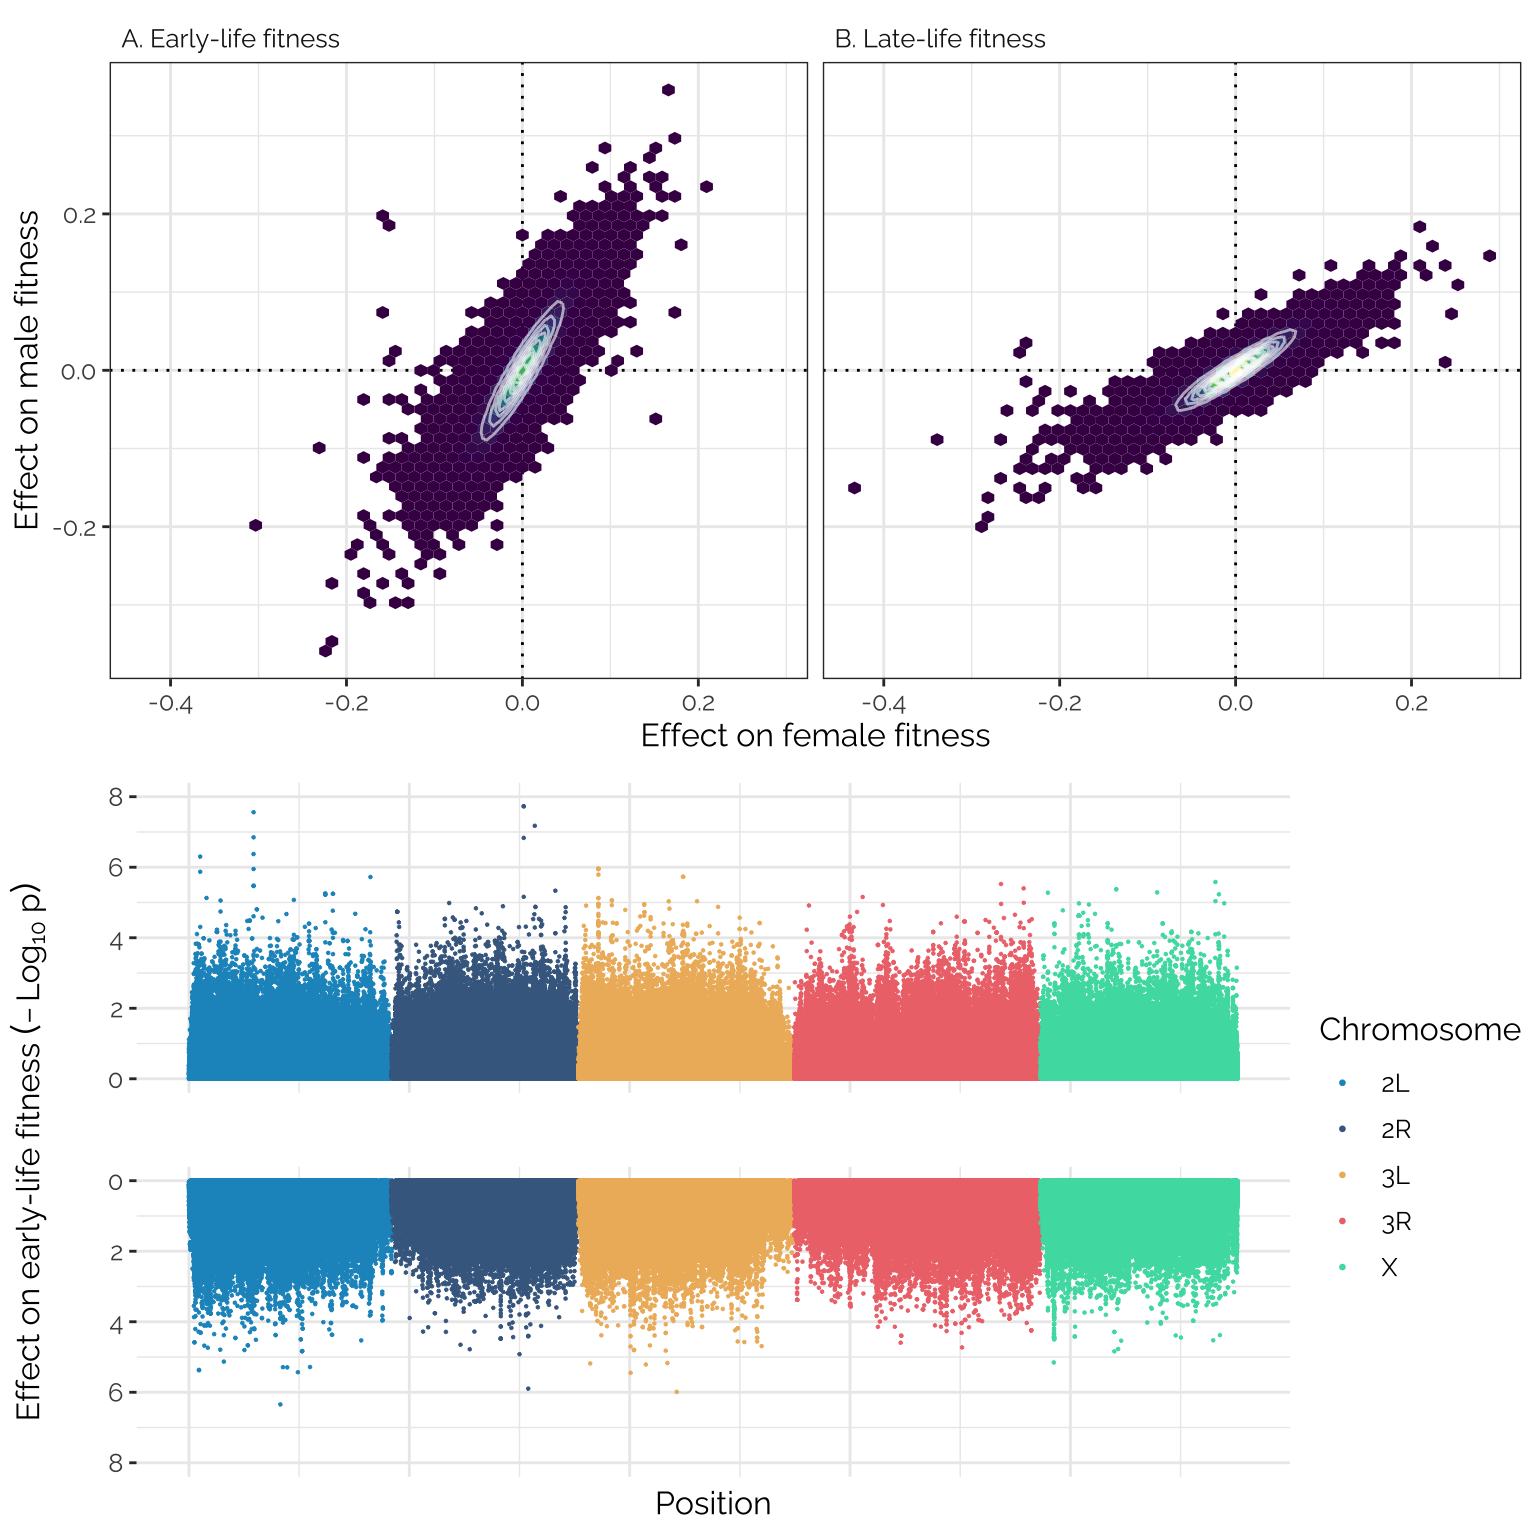
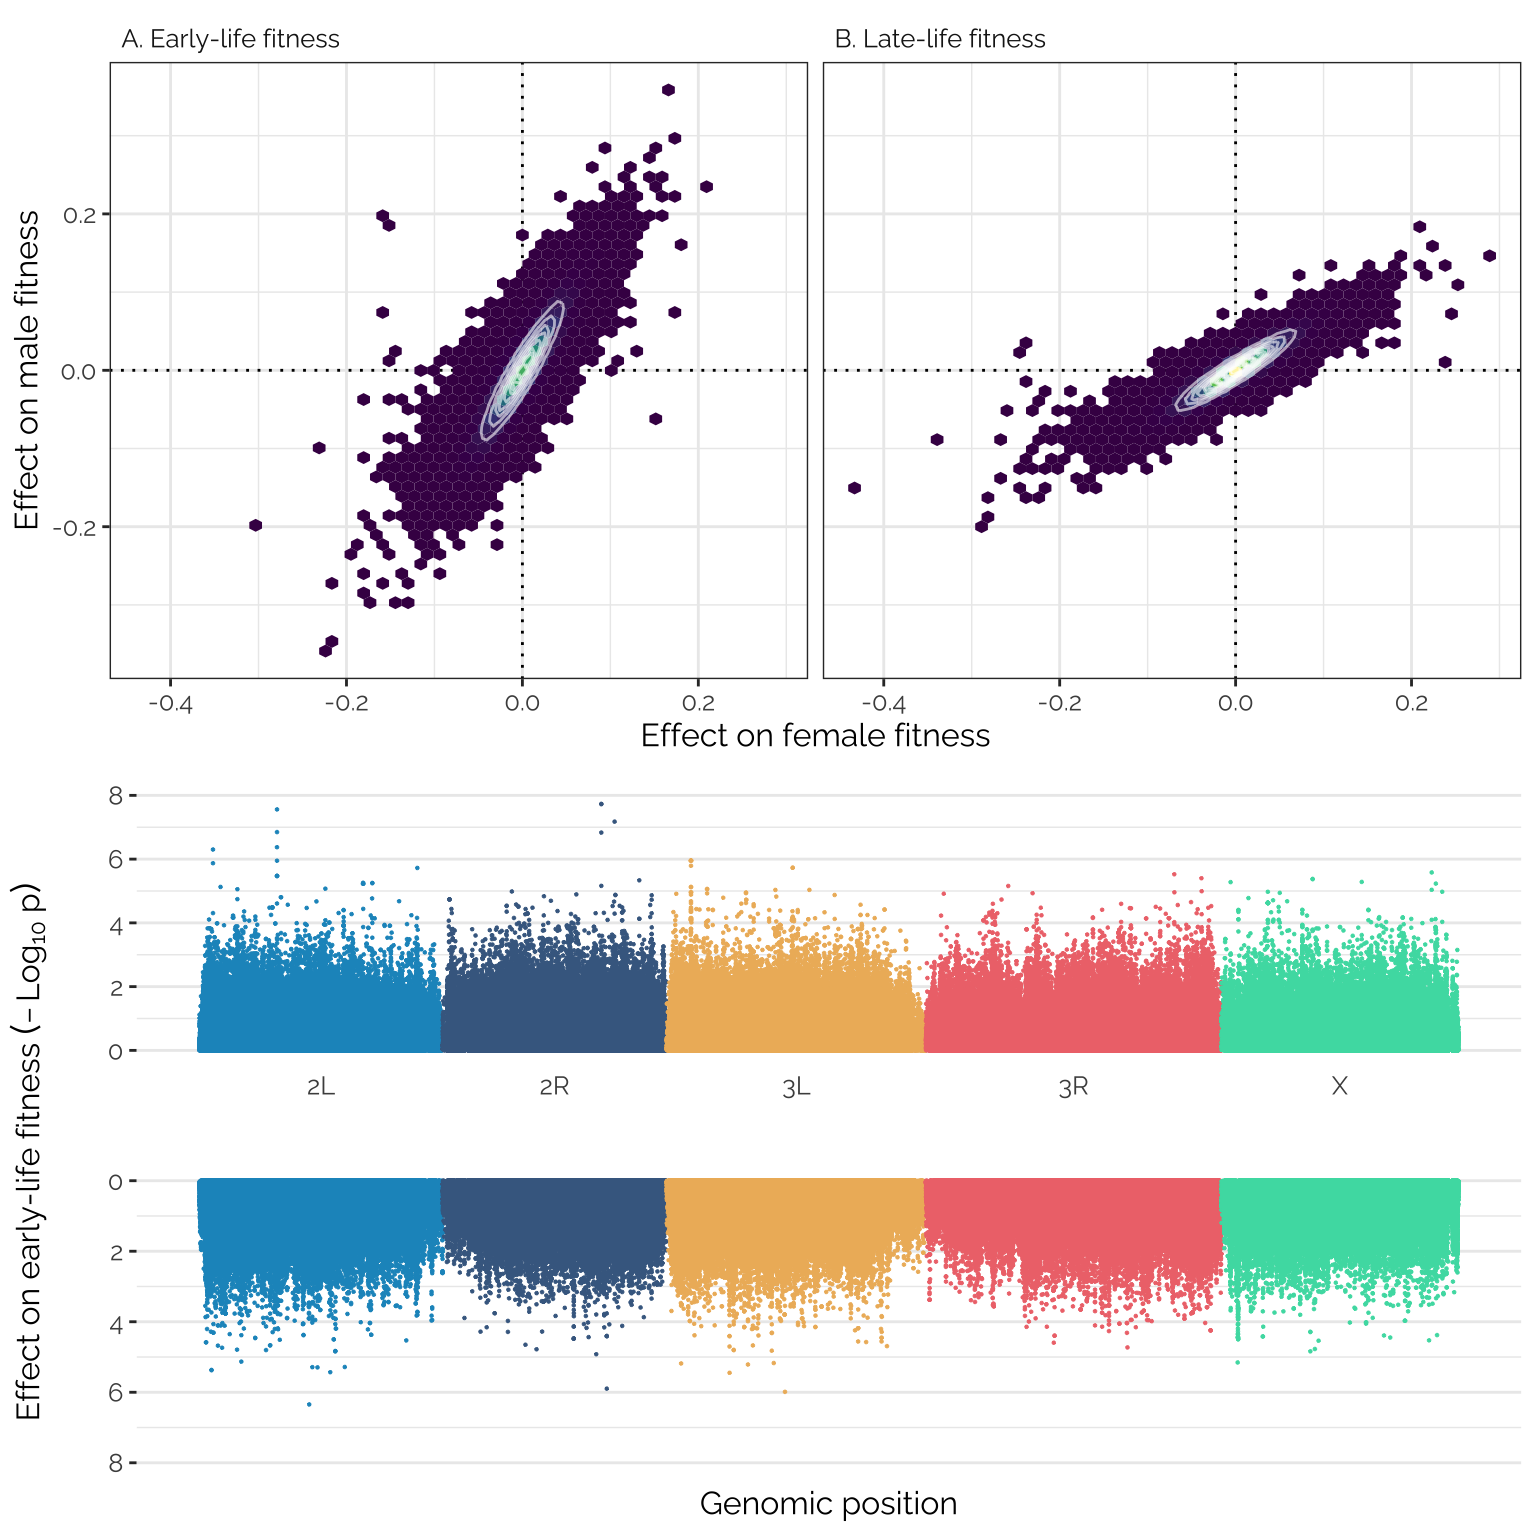
Build site.

Changed region(s): [[0.0625, 0.5625, 1.0, 0.7188], [0.0938, 0.75, 0.9688, 0.875], [0.4375, 0.9688, 0.625, 1.0]]

diff --git a/docs/plot_models_variant_effects.html b/docs/plot_models_variant_effects.html
@@ -397,7 +397,7 @@ class="glyphicon glyphicon-ok text-success" aria-hidden="true"></span>
 <div class="tab-content">
 <div id="summary" class="tab-pane fade in active">
 <p>
-<strong>Last updated:</strong> 2023-04-16
+<strong>Last updated:</strong> 2023-04-17
 </p>
 <p>
 <strong>Checks:</strong> <span
@@ -528,15 +528,15 @@ project makes it easier to run your code on other machines.</p>
 <div class="panel panel-default">
 <div class="panel-heading">
 <p class="panel-title">
-<a data-toggle="collapse" data-parent="#workflowr-checks" href="#strongRepositoryversionstrongahrefhttpsgithubcomlukeholmanfitnessGWAStree67235d7163d7f79332d9725b4e8d864bf2056aeftargetblank67235d7a">
+<a data-toggle="collapse" data-parent="#workflowr-checks" href="#strongRepositoryversionstrongahrefhttpsgithubcomlukeholmanfitnessGWAStree0190e1688e11464090697f1afae8c0b71e4cb43atargetblank0190e16a">
 <span class="glyphicon glyphicon-ok text-success"
 aria-hidden="true"></span> <strong>Repository version:</strong>
-<a href="https://github.com/lukeholman/fitnessGWAS/tree/67235d7163d7f79332d9725b4e8d864bf2056aef" target="_blank">67235d7</a>
+<a href="https://github.com/lukeholman/fitnessGWAS/tree/0190e1688e11464090697f1afae8c0b71e4cb43a" target="_blank">0190e16</a>
 </a>
 </p>
 </div>
 <div
[2 lines of base64/hex data omitted]
 class="panel-collapse collapse">
 <div class="panel-body">
 <p>
@@ -546,7 +546,7 @@ reproducibility.
 </p>
 <p>
 The results in this page were generated with repository version
-<a href="https://github.com/lukeholman/fitnessGWAS/tree/67235d7163d7f79332d9725b4e8d864bf2056aef" target="_blank">67235d7</a>.
+<a href="https://github.com/lukeholman/fitnessGWAS/tree/0190e1688e11464090697f1afae8c0b71e4cb43a" target="_blank">0190e16</a>.
 See the <em>Past versions</em> tab to see a history of the changes made
 to the R Markdown and HTML files.
 </p>
@@ -584,6 +584,8 @@ Ignored files:
 
 Untracked files:
     Untracked:  code/~$in_paper_figures.docx
+    Untracked:  figures/fig1.pdf
+    Untracked:  figures/fig1_font.pdf
     Untracked:  old_analyses/Data for old analyses/
     Untracked:  old_analyses/eQTL_analysis.Rmd
     Untracked:  old_analyses/fitness_data.csv
@@ -591,6 +593,8 @@ Untracked files:
     Untracked:  old_analyses/quantitative_genetics_OLD_brms.Rmd
 
 Unstaged changes:
+    Modified:   code/main_paper_figures.Rmd
+    Modified:   code/main_paper_figures.docx
     Modified:   code/pdf_supp_material.Rmd
     Modified:   code/pdf_supp_material.pdf
     Modified:   figures/fig2_SNPs_manhattan_plot.png
@@ -599,6 +603,7 @@ Unstaged changes:
     Modified:   figures/fig5_quartiles_plot.pdf
     Modified:   figures/fig6_antagonism_ratios.pdf
     Modified:   figures/fig7_models.pdf
+    Deleted:    output/README.md
 
 </code></pre>
 <p>
@@ -645,6 +650,40 @@ Message
 </tr>
 </thead>
 <tbody>
+<tr>
+<td>
+Rmd
+</td>
+<td>
+<a href="https://github.com/lukeholman/fitnessGWAS/blob/0190e1688e11464090697f1afae8c0b71e4cb43a/analysis/plot_models_variant_effects.Rmd" target="_blank">0190e16</a>
+</td>
+<td>
+lukeholman
+</td>
+<td>
+2023-04-17
+</td>
+<td>
+wflow_publish("analysis/plot_models_variant_effects.Rmd")
+</td>
+</tr>
+<tr>
+<td>
+html
+</td>
+<td>
+<a href="https://rawcdn.githack.com/lukeholman/fitnessGWAS/0ddcf25da67f04bcf9bb58d5c3af46c10c059d0c/docs/plot_models_variant_effects.html" target="_blank">0ddcf25</a>
+</td>
+<td>
+lukeholman
+</td>
+<td>
+2023-04-16
+</td>
+<td>
+Build site.
+</td>
+</tr>
 <tr>
 <td>
 Rmd
@@ -2137,16 +2176,24 @@ manhattan_data &lt;- manhattan_data %&gt;%
 
 manhat_cols &lt;- c(&quot;#1B96C6&quot;, &quot;#456990&quot;, &quot;#EEB868&quot;, &quot;#EF767A&quot;, &quot;#49DCB1&quot;)
 
+x_labels &lt;- manhattan_data %&gt;% 
+  group_by(chr) %&gt;% 
+  summarise(position = min(position) + (max(position) - min(position))/2)
+
+
 p1 &lt;- manhattan_data %&gt;%
   ggplot(aes(position, -1 * log10(pvalue_female_early_raw), 
              group = chr, colour = chr, stroke = 0.2)) + 
   geom_point(size = 0.5) +
-  scale_colour_manual(values = manhat_cols, name = &quot;Chromosome&quot;) +
+  scale_colour_manual(values = manhat_cols) +
   scale_y_continuous(limits = c(0,8)) +
+  scale_x_continuous(breaks = x_labels$position, labels = x_labels$chr) +
   ylab(&quot;&quot;) +  xlab(&quot;&quot;) +
   theme_bw() + 
-  theme(axis.text.x = element_blank(),
+  theme(legend.position = &quot;none&quot;,
         text = element_text(family = &quot;Raleway&quot;, size = 12),
+        panel.grid.major.x = element_blank(),
+        panel.grid.minor.x = element_blank(),
         panel.border = element_blank(),
         axis.ticks.x = element_blank())
 
@@ -2156,42 +2203,30 @@ p2 &lt;- manhattan_data %&gt;%
              group = chr, colour = chr, stroke = 0.2)) + 
   geom_point(size = 0.5) +
   scale_colour_manual(values = manhat_cols) +
-  xlab(&quot;Position&quot;) + ylab(&quot;&quot;) +
+  xlab(&quot;Genomic position&quot;) + ylab(&quot;&quot;) +
   scale_y_reverse(limits = c(8,0)) +
   theme_bw() + 
   theme(axis.text.x = element_blank(),
+        legend.position = &quot;none&quot;,
+        panel.grid.major.x = element_blank(),
+        panel.grid.minor.x = element_blank(),
         text = element_text(family = &quot;Raleway&quot;, size = 12),
         panel.border = element_blank(),
         axis.ticks.x = element_blank())
 
-grid_arrange_shared_legend &lt;- function(..., ncol = length(list(...)), nrow = 1) {
+left_label &lt;- text_grob(expression(Effect~on~`early-life`~fitness~(-Log[10]~p)), 
+                        size = 12, family = &quot;Raleway&quot;, rot = 90)
 
-  plots &lt;- list(...)
-  g &lt;- ggplotGrob(plots[[1]] + theme(legend.position = &quot;right&quot;))$grobs
-  legend &lt;- g[[which(sapply(g, function(x) x$name) == &quot;guide-box&quot;)]]
-  lheight &lt;- sum(legend$height)
-  lwidth &lt;- sum(legend$width)
-  gl &lt;- lapply(plots, function(x) x + theme(legend.position = &quot;none&quot;))
-  gl &lt;- c(gl, ncol = ncol, nrow = nrow)
-  
-  left_label &lt;- text_grob(expression(Effect~on~`early-life`~fitness~(-Log[10]~p)), 
-                          size = 12, family = &quot;Raleway&quot;, rot = 90)
-
-  combined &lt;- arrangeGrob(
-    arrangeGrob(gl[[1]], gl[[2]], nrow = 2, 
-                left = left_label),
-    legend,
-    ncol = 2,
-    widths = unit.c(unit(1, &quot;npc&quot;) - lwidth, lwidth))
-  return(combined)
-}
+combined_manhattan &lt;- arrangeGrob(
+  arrangeGrob(p1, p2, nrow = 2, 
+              left = left_label))
 
 png(&quot;figures/fig2_SNPs_manhattan_plot.png&quot;, 
     height = 8, width = 8, res = 300, units = &quot;in&quot;)
-grid.arrange(fig2_top, grid_arrange_shared_legend(p1, p2))
+grid.arrange(fig2_top, combined_manhattan)
 invisible(dev.off())
 
-grid.arrange(fig2_top, grid_arrange_shared_legend(p1, p2))</code></pre>
+grid.arrange(fig2_top, combined_manhattan)</code></pre>
 <p><img src="figure/plot_models_variant_effects.Rmd/manhattan-1.png" width="768" style="display: block; margin: auto;" /></p>
 <p>
 <button type="button" class="btn btn-default btn-xs btn-workflowr btn-workflowr-fig" data-toggle="collapse" data-target="#fig-manhattan-1">
@@ -2215,6 +2250,17 @@ Date
 </tr>
 </thead>
 <tbody>
+<tr>
+<td>
+<a href="https://github.com/lukeholman/fitnessGWAS/blob/0ddcf25da67f04bcf9bb58d5c3af46c10c059d0c/docs/figure/plot_models_variant_effects.Rmd/manhattan-1.png" target="_blank">0ddcf25</a>
+</td>
+<td>
+lukeholman
+</td>
+<td>
+2023-04-16
+</td>
+</tr>
 <tr>
 <td>
 <a href="https://github.com/lukeholman/fitnessGWAS/blob/d22c0f8d62d6eaf0e3ba757c52ab7e11fc6a16ba/docs/figure/plot_models_variant_effects.Rmd/manhattan-1.png" target="_blank">d22c0f8</a>
@@ -2523,39 +2569,39 @@ Formula: Female_fitness_early ~ mutation_count
 
 Population-Level Effects: 
                                   Estimate Est.Error l-95% CI u-95% CI Rhat
-Femalefitnessearly_Intercept          0.60      0.42    -0.22     1.42 1.00
-Femalefitnesslate_Intercept           1.01      0.42     0.18     1.82 1.00
-Malefitnessearly_Intercept            0.44      0.42    -0.37     1.25 1.00
-Malefitnesslate_Intercept             0.75      0.42    -0.06     1.56 1.00
+Femalefitnessearly_Intercept          0.60      0.42    -0.22     1.41 1.00
+Femalefitnesslate_Intercept           1.00      0.42     0.18     1.82 1.00
+Malefitnessearly_Intercept            0.43      0.41    -0.38     1.24 1.00
+Malefitnesslate_Intercept             0.74      0.41    -0.08     1.54 1.00
 Femalefitnessearly_mutation_count    -0.03      0.02    -0.08     0.01 1.00
 Femalefitnesslate_mutation_count     -0.05      0.02    -0.10    -0.01 1.00
 Malefitnessearly_mutation_count      -0.02      0.02    -0.07     0.02 1.00
 Malefitnesslate_mutation_count       -0.04      0.02    -0.08     0.00 1.00
                                   Bulk_ESS Tail_ESS
-Femalefitnessearly_Intercept         24428    19596
-Femalefitnesslate_Intercept          23673    18496
-Malefitnessearly_Intercept           20796    18131
-Malefitnesslate_Intercept            21636    18760
-Femalefitnessearly_mutation_count    24482    19212
-Femalefitnesslate_mutation_count     23761    18198
-Malefitnessearly_mutation_count      20830    18500
-Malefitnesslate_mutation_count       21610    18163
+Femalefitnessearly_Intercept         22098    18731
+Femalefitnesslate_Intercept          20845    18747
+Malefitnessearly_Intercept           19682    16967
+Malefitnesslate_Intercept            20007    17663
+Femalefitnessearly_mutation_count    22121    18660
+Femalefitnesslate_mutation_count     21030    18829
+Malefitnessearly_mutation_count      19854    17587
+Malefitnesslate_mutation_count       20129    17147
 
 Residual Correlations: 
                                              Estimate Est.Error l-95% CI
 rescor(Femalefitnessearly,Femalefitnesslate)     0.75      0.03     0.68
-rescor(Femalefitnessearly,Malefitnessearly)      0.21      0.08     0.05
+rescor(Femalefitnessearly,Malefitnessearly)      0.21      0.08     0.04
 rescor(Femalefitnesslate,Malefitnessearly)       0.29      0.08     0.13
 rescor(Femalefitnessearly,Malefitnesslate)       0.14      0.08    -0.02
 rescor(Femalefitnesslate,Malefitnesslate)        0.28      0.08     0.12
-rescor(Malefitnessearly,Malefitnesslate)         0.86      0.02     0.81
+rescor(Malefitnessearly,Malefitnesslate)         0.86      0.02     0.82
                                              u-95% CI Rhat Bulk_ESS Tail_ESS
-rescor(Femalefitnessearly,Femalefitnesslate)     0.81 1.00    31883    16292
-rescor(Femalefitnessearly,Malefitnessearly)      0.35 1.00    22398    18389
-rescor(Femalefitnesslate,Malefitnessearly)       0.43 1.00    22042    17756
-rescor(Femalefitnessearly,Malefitnesslate)       0.30 1.00    22052    18326
-rescor(Femalefitnesslate,Malefitnesslate)        0.43 1.00    22156    18124
-rescor(Malefitnessearly,Malefitnesslate)         0.89 1.00    31992    17552
+rescor(Femalefitnessearly,Femalefitnesslate)     0.81 1.00    33706    17525
+rescor(Femalefitnessearly,Malefitnessearly)      0.36 1.00    22063    18563
+rescor(Femalefitnesslate,Malefitnessearly)       0.44 1.00    20976    17540
+rescor(Femalefitnessearly,Malefitnesslate)       0.30 1.00    21273    18220
+rescor(Femalefitnesslate,Malefitnesslate)        0.43 1.00    20107    17775
+rescor(Malefitnessearly,Malefitnesslate)         0.89 1.00    31031    18130
 
 Draws were sampled using sampling(NUTS). For each parameter, Bulk_ESS
 and Tail_ESS are effective sample size measures, and Rhat is the potential
@@ -2607,6 +2653,17 @@ Date
 </tr>
 </thead>
 <tbody>
+<tr>
+<td>
+<a href="https://github.com/lukeholman/fitnessGWAS/blob/0ddcf25da67f04bcf9bb58d5c3af46c10c059d0c/docs/figure/plot_models_variant_effects.Rmd/unnamed-chunk-12-1.png" target="_blank">0ddcf25</a>
+</td>
+<td>
+lukeholman
+</td>
+<td>
+2023-04-16
+</td>
+</tr>
 <tr>
 <td>
 <a href="https://github.com/lukeholman/fitnessGWAS/blob/8166ce471e73f557111c329c98730f673f4a0f98/docs/figure/plot_models_variant_effects.Rmd/unnamed-chunk-12-1.png" target="_blank">8166ce4</a>
@@ -2879,6 +2936,17 @@ Date
 <tbody>
 <tr>
 <td>
+<a href="https://github.com/lukeholman/fitnessGWAS/blob/0ddcf25da67f04bcf9bb58d5c3af46c10c059d0c/docs/figure/plot_models_variant_effects.Rmd/unnamed-chunk-14-1.png" target="_blank">0ddcf25</a>
+</td>
+<td>
+lukeholman
+</td>
+<td>
+2023-04-16
+</td>
+</tr>
+<tr>
+<td>
 <a href="https://github.com/lukeholman/fitnessGWAS/blob/8166ce471e73f557111c329c98730f673f4a0f98/docs/figure/plot_models_variant_effects.Rmd/unnamed-chunk-14-1.png" target="_blank">8166ce4</a>
 </td>
 <td>
@@ -3047,7 +3115,7 @@ Male late-life (ME)
 0.022
 </td>
 <td style="text-align:right;">
--0.067
+-0.066
 </td>
 <td style="text-align:right;">
 0.019
@@ -3064,10 +3132,10 @@ Male late-life (ML)
 0.022
 </td>
 <td style="text-align:right;">
--0.084
+-0.082
 </td>
 <td style="text-align:right;">
-0.002
+0.003
 </td>
 </tr>
 <tr>
@@ -3075,7 +3143,7 @@ Male late-life (ML)
 FE - FL
 </td>
 <td style="text-align:right;">
-0.021
+0.022
 </td>
 <td style="text-align:right;">
 0.016
@@ -3098,7 +3166,7 @@ ME - ML
 0.012
 </td>
 <td style="text-align:right;">
--0.007
+-0.006
 </td>
 <td style="text-align:right;">
 0.040
@@ -3149,7 +3217,7 @@ ME - FL
 0.026
 </td>
 <td style="text-align:right;">
--0.022
+-0.021
 </td>
 <td style="text-align:right;">
 0.082
@@ -3169,7 +3237,7 @@ ML - FL
 -0.039
 </td>
 <td style="text-align:right;">
-0.066
+0.065
 </td>
 </tr>
 </tbody>
